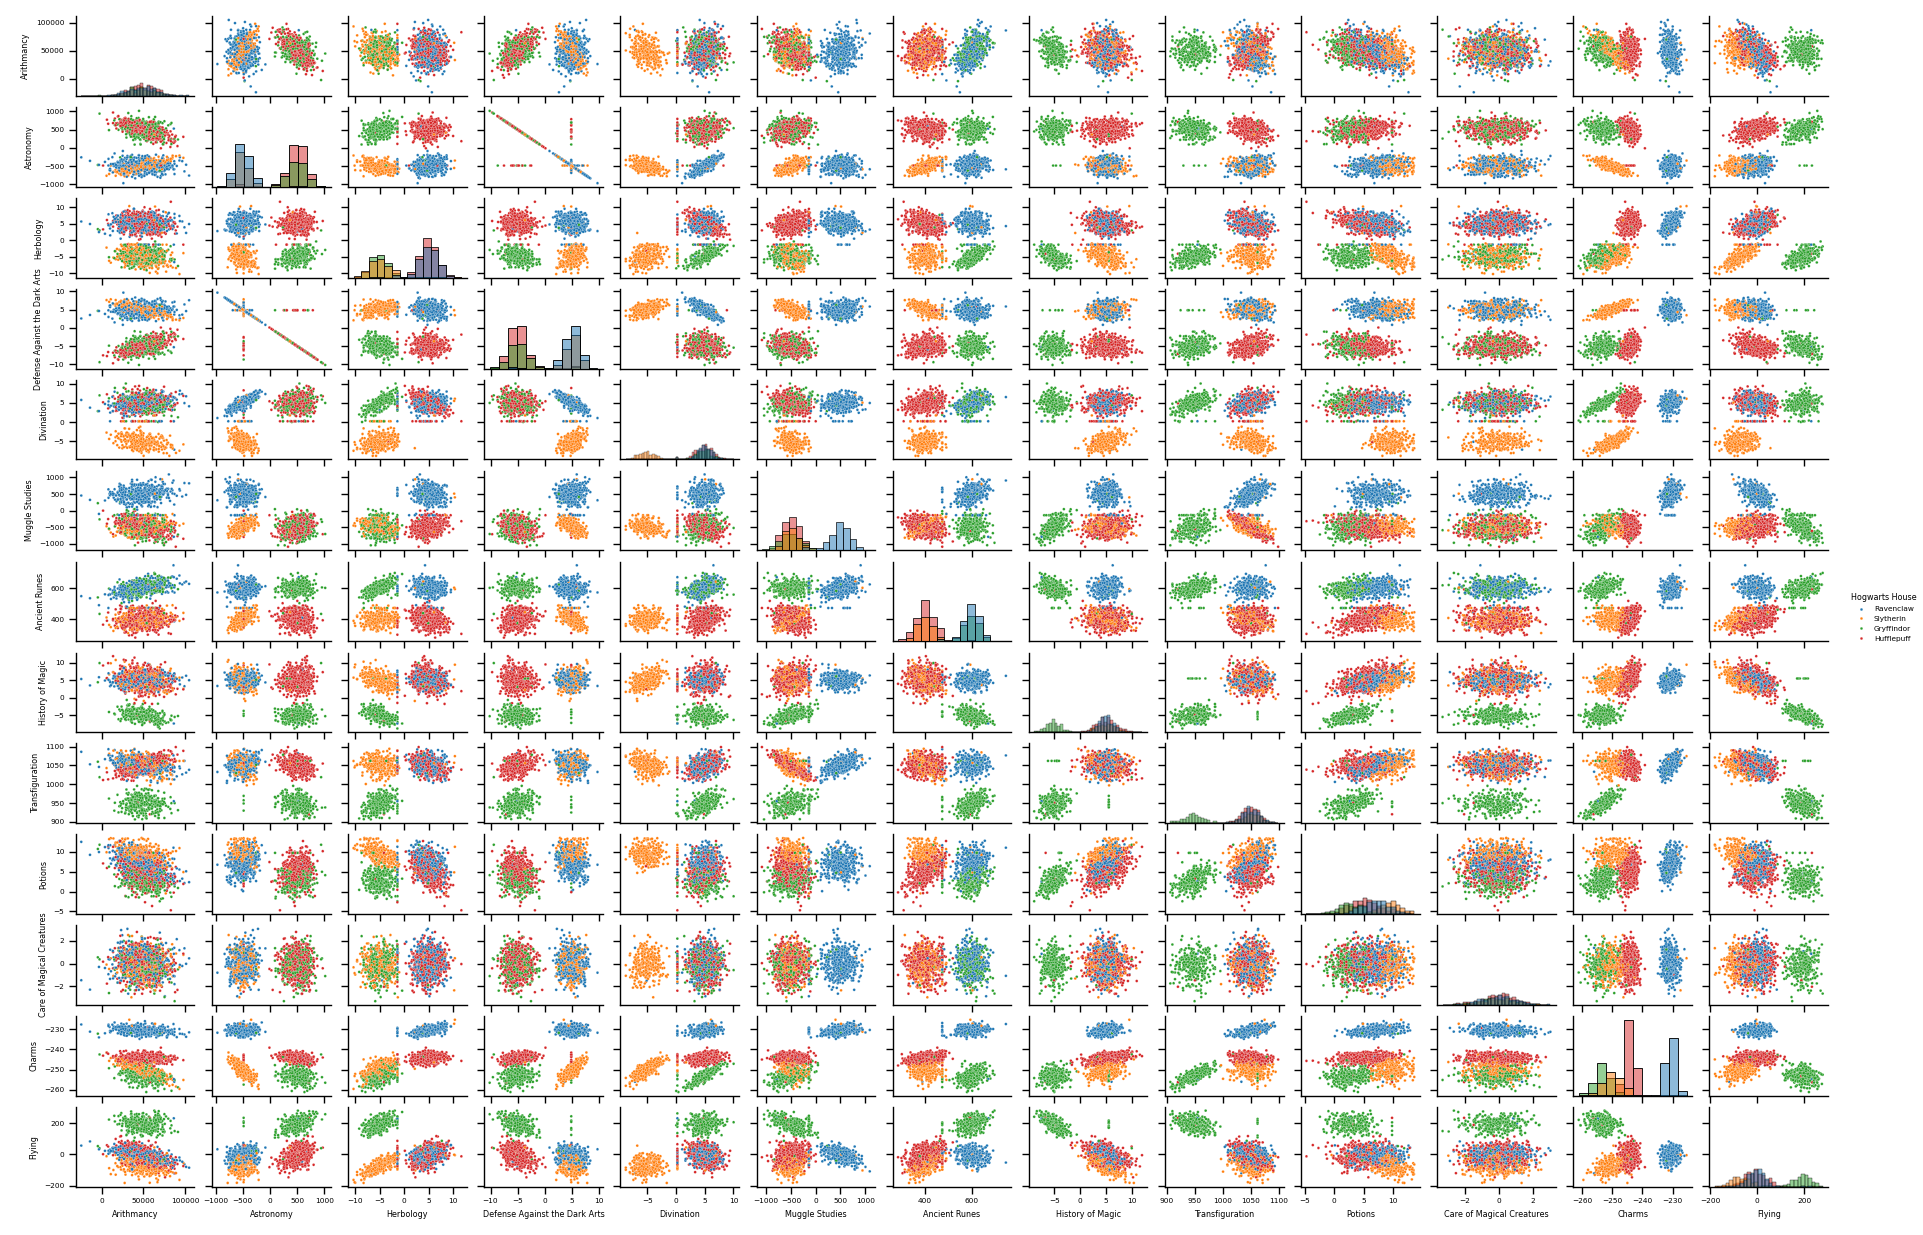
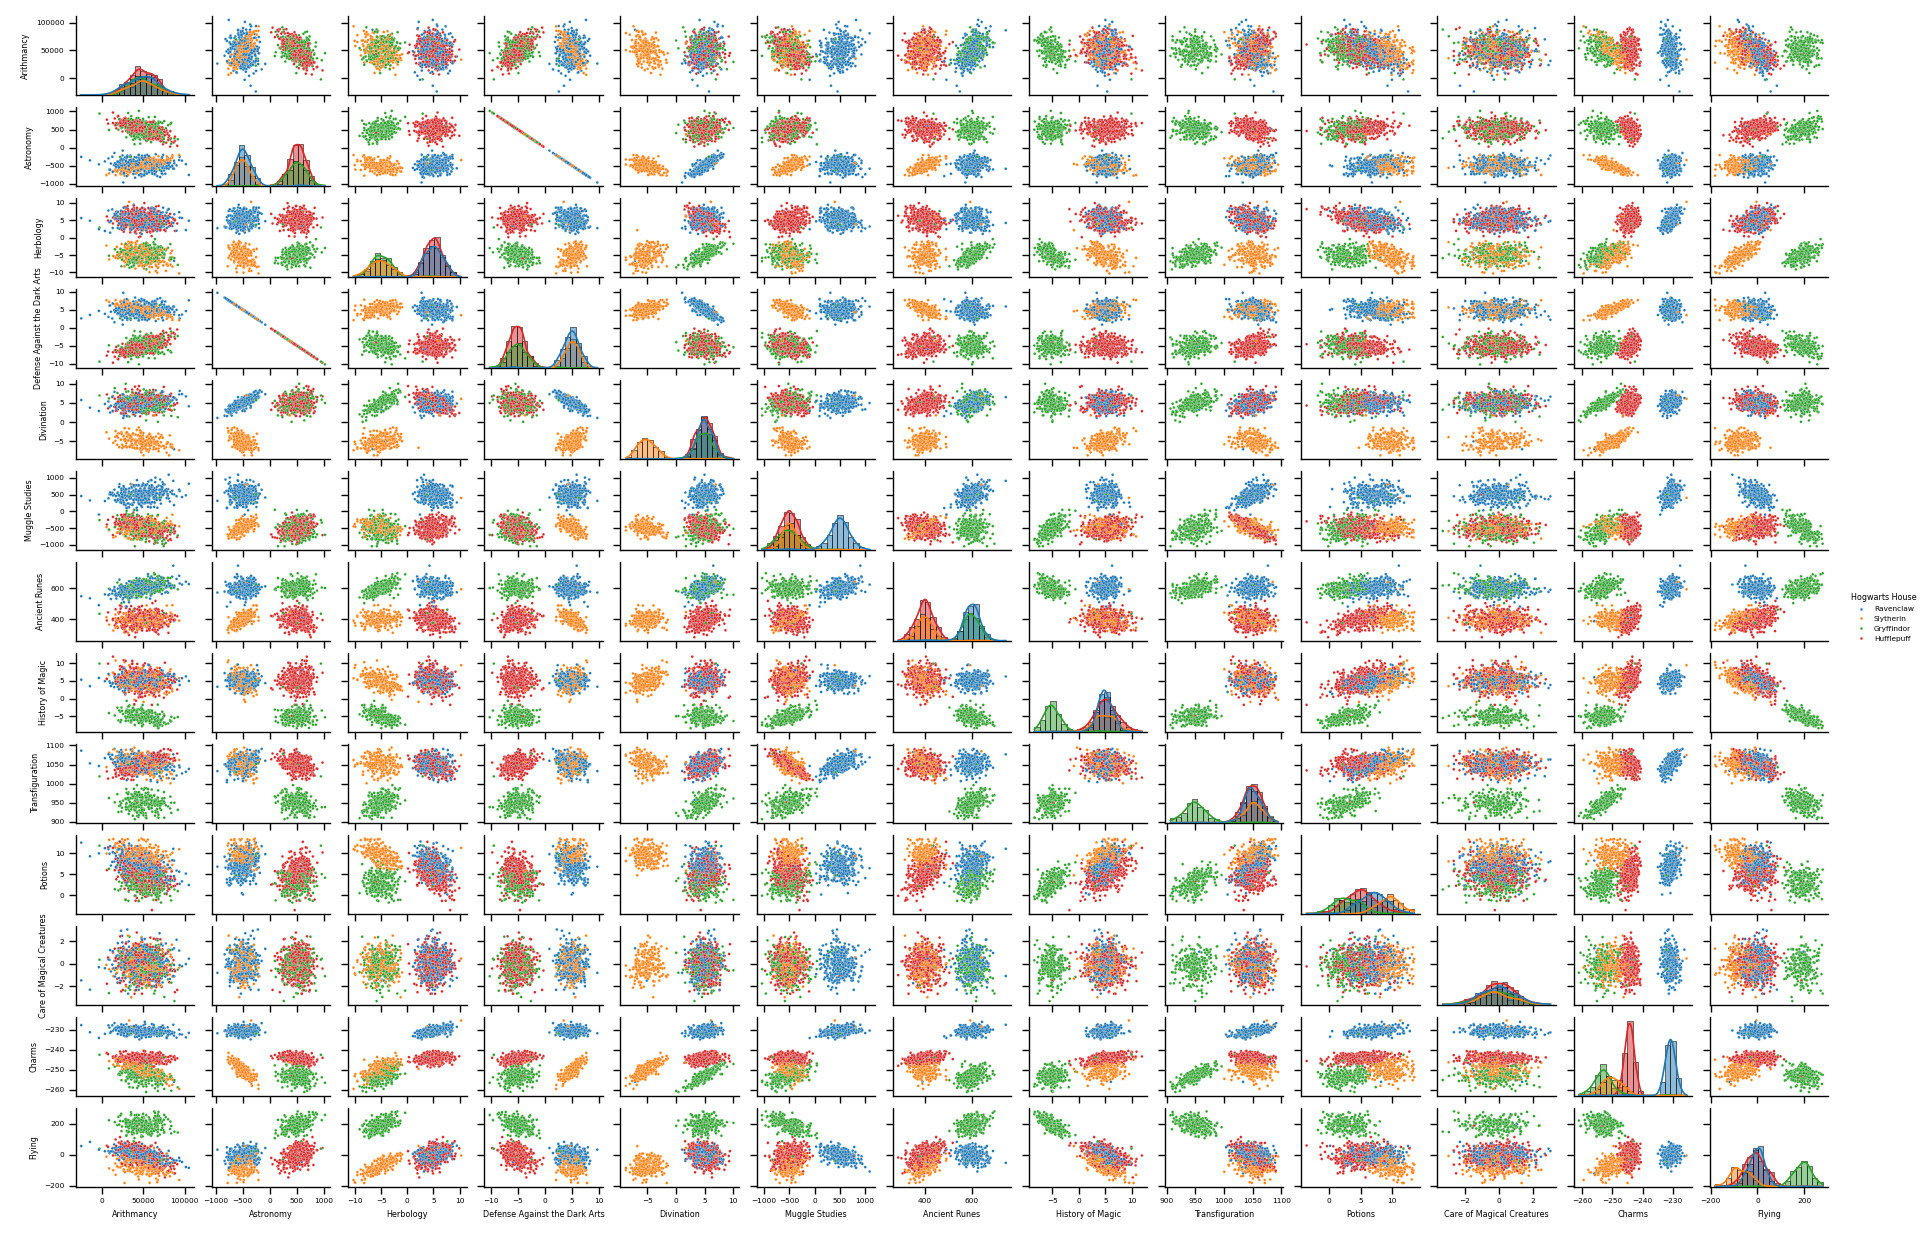
modify pair plot, inclue KDE in histogram

diff --git a/src/visual/pair_plot.py b/src/visual/pair_plot.py
@@ -41,7 +41,9 @@ def pair_plot(filename):
     sns.set_context("paper", font_scale=0.6)
 
     sns.pairplot(df, hue='Hogwarts House', kind='scatter', diag_kind='hist',
-                 plot_kws={"s": 4}, height=0.95, aspect=1.5)
+                 plot_kws={"s": 4},
+                 diag_kws={'alpha': 0.5, 'bins': 20, 'kde': True},
+                 height=0.95, aspect=1.5)
 
     plt.show(block=False)
 
